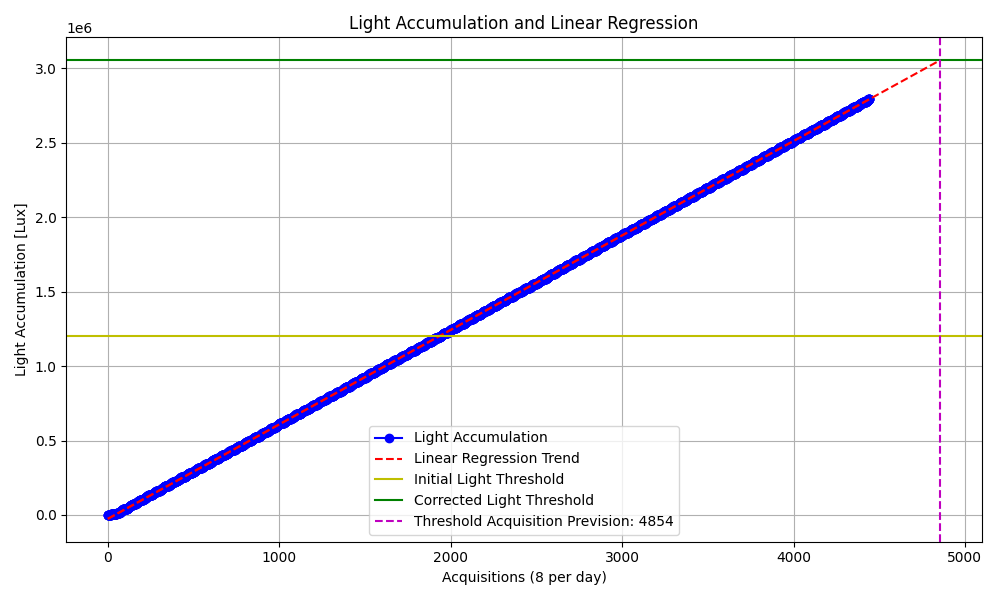
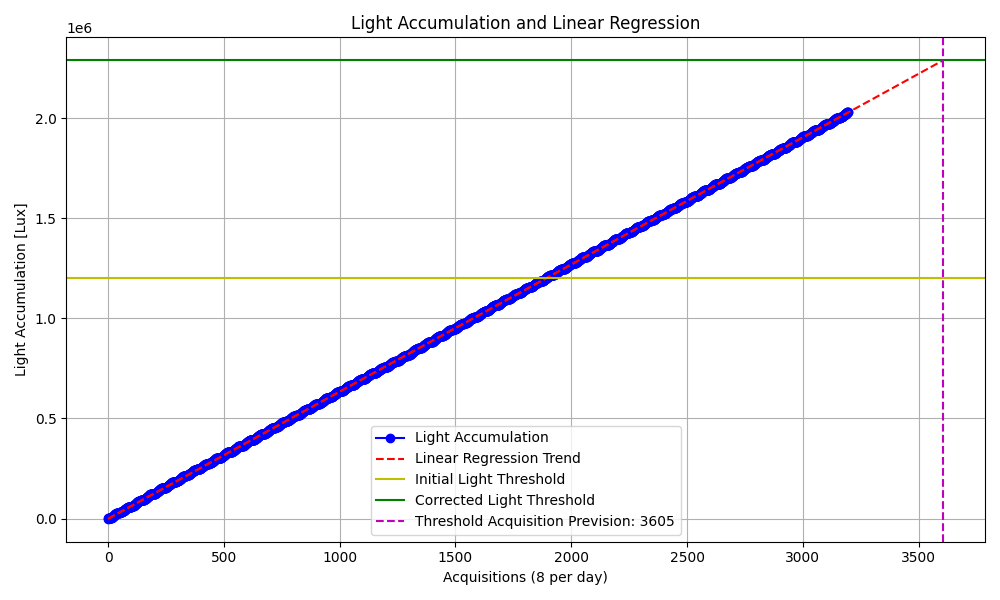
webapp + website (week19 + timeline)
Fica a faltar:
- Blog: a week20
- Timeline: meter imagens do Nuno; demo day
- Se calhar vai ser necessário alterar uma coisa no algoritmo de previsão. Depois temos que ver com dados reais

diff --git a/Website/timeline/harvest.html b/Website/timeline/harvest.html
@@ -41,26 +41,16 @@
 
     <!-- Custom styles for this template -->
     <link href="../css/style.css" rel="stylesheet" />
-    <link rel="stylesheet" href="https://cdnjs.cloudflare.com/ajax/libs/font-awesome/6.0.0/css/all.min.css">
+    <link href="../css/timeline.css" rel="stylesheet" />
     <!-- responsive style -->
     <link href="../css/responsive.css" rel="stylesheet" />
+    <link rel="stylesheet" href="https://cdnjs.cloudflare.com/ajax/libs/font-awesome/6.0.0/css/all.min.css">
 
     <script>
       function goBack() {
           window.history.back();
       }
     </script>
-
-    <style>
-        /* Define hover effect */
-        .video-container {
-            transition: transform 0.3s ease; /* Smooth transition */
-        }
-
-        .video-container:hover {
-            transform: scale(1.1); /* Increase scale on hover */
-        }
-    </style>
   
 
 </head>
@@ -146,63 +136,51 @@
             };
         </script>
 
-        <section class="service_section layout_padding" style="margin-top: -30px;">
-            <div class="service_container">
-                <div class="container ">
-                    <div class="heading_container" style="margin-bottom: 1%;">
-                        <h2>
-                          Progress Update 
-                        </h2>
-                    </div>
-                    <div class="heading_container" style="margin-bottom: -5%;">
-                      <h5>16<sup>th</sup> Jun. - 22<sup>nd</sup> Jun.</h5>
-                    </div>
-                </div>
-            </div>
-        </section>
-
-        <section class="about_section layout_padding-bottom" >
-            <div class="container">
-              <div style="margin-bottom: 50px; display: flex; justify-content: center;">
-                <div class="img-box" style="height: 70%; width: 70%; text-align: center;">
-                    <img src="../images/week19.jpg" alt="" style="border-radius: 5px; margin: auto; width: 96.5%;">
-                </div>
+        <section class="service_section layout_padding" style="margin-top: -35px; margin-bottom: -90px;">
+          <div class="service_container">
+            <div class="container ">
+              <div class="heading_container">
+                <h2>
+                    Harvest Date Prediction Model
+                </h2>
               </div>
-              <div style="text-align:justify; margin-bottom: 50px;">
-
-                <p>During the past week, we completed the final adjustments to our website. We also started and finished the harvest date prediction algorithm. This algorithm is based on accumulated light and a computer vision model. Using accumulated light, we performed a linear regression, and with the computer vision model, we adjusted the accumulated light threshold value to achieve the desired maturation level (90% to 95%). The computer vision model proved to be quite important, as it allows us to correct potential deviations since maturation is not completely linear with accumulated light. Finally, this model was integrated into the web app.</p>
-                <div style="display: flex; justify-content: center;">
-                  <figure>
-                      <img src="../images/prevision.png" alt="Image depicting Alternaria disease" style="width:800px; border-radius: 5px;">
-                      <figcaption style="text-align: center; font-style: italic; margin-top: 10px; margin-bottom: 10px;">Results from the Harvest Date Prediction Model</figcaption>
-                  </figure>
-                </div>
-                <p style="text-align: right;"><em>(Francisco Apolinário)</em></p>
-
-                <p>We also finished the modifications to the 3D models of the boxes that will house the hardware, making them more compact and efficient.</p>
-                <p style="text-align: right;"><em>(Hugo Dezerto)</em></p>
-
-                <p>During the week, we also made adjustments to the server and the backend of the web app to integrate the harvest date prediction model. Concurrently, we printed the designed boxes and added stands to ensure the nodes are positioned above the level of the tomato plant leaves. This setup allows for accurate light measurements.</p>
-                <p style="text-align: right;"><em>(Filipe Piçarra)</em></p>
-              
-                <p>Lastly, we finalized the computer vision model for identifying diseases on tomato leaves.</p>
-                <p style="text-align: right;"><em>(Nuno Abreu)</em></p>
-
-                <!--
-                <p></p>
-                <p style="text-align: right;"><em>(Guilherme Barros)</em></p>
-
-                <p></p>
-                <p style="text-align: right;"><em>(Matilde Sardinha)</em></p>
-                -->
-
-                </div>
-                <button onclick="goBack()" class="btn-box"
-                  style="background-color: #455a1b; color: white; border: none; padding: 8px 16px; cursor: pointer; font-size: 14px; margin-top: -5%;">
-                  Read Less
-              </button>
             </div>
+          </div>
         </section>
+      
+        <section class="about_section layout_padding-bottom" style="margin-top: 30px;">
+          <div class="container">
+            <div class="row">
+                <div class="col-md-6" style="margin-bottom: 30px;">
+                    <div class="img-box" style="height: 90%; width: 90%; margin-left: 5%;">
+                      <img src="../images/prev.png" alt="" style="border-radius: 5px ">
+                    </div>
+                  </div>
+                  <div class="col-md-6" style="text-align: justify; margin-bottom: 30px;">
+                    <p> 
+                        In discussions with agricultural engineers, a significant opportunity emerged in the realm of predicting harvest schedules and understanding crop cycles more accurately. They pointed out that existing methods could be enhanced by leveraging luminosity data collected via sensors. To explore this potential, we developed a Python-based model that utilizes linear regression. This model analyzes the accumulation of luminosity over time to predict the precise day when a predefined luminosity threshold will be met, signaling optimal harvest conditions.
+                    </p>
+                  </div>
+                  <div class="col-md-6" style="text-align: justify; margin-bottom: 30px;">
+                    <p>
+                        Recognizing the inherent variability among different crops and the potential for errors in setting fixed thresholds, we incorporated insights from computer vision technology. This complementary model monitors the maturity levels of crops visually, allowing for dynamic adjustments to the luminosity threshold. By integrating these two approaches, our solution becomes versatile and adaptable, catering effectively to diverse agricultural environments and responding flexibly to the unique growth behaviors of various crops. This combined methodology not only enhances the accuracy of harvest predictions but also improves overall crop management strategies.
+                    </p>
+                  </div>
+                  <div class="col-md-6" style="margin-bottom: 30px;">
+                    <div class="img-box" style="height: 90%; width: 90%; margin-left: 5%;">
+                      <img src="../images/previsi.png" alt="" style="border-radius: 5px; width: 105%;">
+                    </div>
+                  </div>
+            </div>
+            <div style="margin-top: 30px;">
+            <button onclick="goBack()" class="btn-box"
+                style="background-color: #455a1b; color: white; border: none; padding: 8px 16px; cursor: pointer; font-size: 14px;">
+                See Less
+            </button>
+          </div>
+          </div>
+        </section>
+
 
         <!-- footer section -->
         <section class="footer_section">

diff --git a/Website/timeline/comp_vision.html b/Website/timeline/comp_vision.html
@@ -152,40 +152,54 @@
             <div class="row">
               <div class="col-md-6" style="margin-bottom: 30px;">
                 <div class="img-box" style="height: 90%; width: 90%; margin-left: 5%;">
-                  <img src="../images/database.png" alt="" style="border-radius: 5px ">
+                  <img src="../images/bat1.jpeg" alt="" style="border-radius: 5px ">
                 </div>
               </div>
               <div class="col-md-6" style="text-align: justify; margin-bottom: 30px;">
-                <p>
-                  
+                <p> 
+                  Due to the nature of machine learning, we knew that developing our own models without a good dataset would be a challenge. As such, we initially aimed to develop a Python program capable of running detections with any computer vision model. This approach allowed us to spend time finding adequate models to deploy once the program was complete.
                 </p>
               </div>
               <div class="col-md-6" style="text-align: justify; margin-bottom: 30px;">
                 <p>
-                  
-              </p>
-              <p>
-                
-            </p>              </div>
-                <style>
-                  video {
-                    position: relative; 
-                    z-index: 1;  
-                    transition: transform 0.3s ease;
-                  }
-
-                  video:hover {
-                      transform: scale(1.1);
-                  }
-              </style>
-              
+                  The application proved difficult to develop due to the various frameworks and formats of CV models. Pursuing it further no longer made sense. However, we discovered two datasets: one for identifying tomatoes and their ripeness level, and one for identifying diseases in tomato leaves. This discovery solved the problem of requiring a good dataset for model development. The new objective became creating these two models using YOLOv8 and developing a program to run detections using any YOLOv8 model.
+                </p>
+              </div>
               <div class="col-md-6" style="margin-bottom: 30px;">
-                  <div class="img-box" style="width: 90%; height: 90%; margin-left: 5%;">
-                      <video width="100%" height="100%" alt="" controls loop autoplay muted style="border-radius: 5px; ">
-                          <source src="../videos/week7.webm" type="video/webm">
-                      </video>
-                  </div>
-              </div>                          
+                <div class="img-box" style="height: 90%; width: 90%; margin-left: 5%;">
+                  <img src="../images/bat2.jpeg" alt="" style="border-radius: 5px; width: 105%;">
+                </div>
+              </div>
+              <div class="col-md-6" style="margin-bottom: 30px;">
+                <div class="img-box" style="height: 90%; width: 90%; margin-left: 5%;">
+                  <img src="../images/bat3.jpeg" alt="" style="border-radius: 5px ">
+                </div>
+              </div>
+              <div class="col-md-6" style="text-align: justify; margin-bottom: 30px;">
+                <p> 
+                  To create the tomato image segmentation model, we first parsed the dataset into a format suitable for training. After this, we used the parsed dataset to train an image segmentation model. Lastly, we developed a Python script to run this model on a given image. This script could also be imported and used as a detection function. Multiple iterations of this script were developed, which we will explore further later.
+                </p>
+              </div>
+              <div class="col-md-6" style="text-align: justify; margin-bottom: 30px;">
+                <p>
+                  Developing the leaf disease object detection model posed several challenges. Parsing the data was difficult due to its lack of normalization and the sheer volume of data points. Additionally, the dataset quality was lower than expected, with many grainy or out-of-focus images. Identifying slightly different leaves in a field of leaves is a more complex task than identifying red balls in a green field. To address these issues, we created a more complex model with a larger matrix, which was harder to train but more effective at achieving our goal.
+                </p>
+              </div>
+              <div class="col-md-6" style="margin-bottom: 30px;">
+                <div class="img-box" style="height: 90%; width: 90%; margin-left: 5%;">
+                  <img src="../images/bat4.jpeg" alt="" style="border-radius: 5px;">
+                </div>
+              </div>
+              <div class="col-md-6" style="margin-bottom: 30px;">
+                <div class="img-box" style="height: 90%; width: 90%; margin-left: 5%;">
+                  <img src="../images/bat3.jpeg" alt="" style="border-radius: 5px ">
+                </div>
+              </div>
+              <div class="col-md-6" style="text-align: justify; margin-bottom: 30px;">
+                <p> 
+                  The Python program was developed alongside the models to meet evolving demands. Initially, we allowed for different models to be used. We then altered how images were saved. Subsequently, we made it so that a .json file was created with the detections. Later, we implemented threading to make the process non-blocking and compatible with the database in use. The final change included adding the model name in the .json file.
+                </p>
+              </div>
             </div>
             <div style="margin-top: 30px;">
             <button onclick="goBack()" class="btn-box"

diff --git a/Website/service.html b/Website/service.html
@@ -330,6 +330,25 @@
                 </li>
               -->
 
+              <li>
+                <div class="content" style="text-align:justify; ">
+                    <h4 style="color: #455a1b; text-align:justify;"> Harvest Date Prediction Model </h4>
+                    <p>
+                      We identified an opportunity in agriculture: predicting harvest dates and crop cycle durations using luminosity data from sensors. Our Python model employs linear regression to forecast when a specified luminosity threshold will be reached, optimizing harvest timing. To account for crop variability, we integrated computer vision to dynamically adjust thresholds based on visual maturity cues. This approach enhances accuracy and adaptability across different crops, improving overall agricultural management.
+                    </p>
+                    <div class="content" style="text-align:justify;">
+                      <div class="btn_box">
+                        <button onclick="window.location.href='timeline/harvest.html'"
+                        style="background-color: #455a1b; color: white; border: none; padding: 8px 16px; cursor: pointer; font-size: 14px;">
+                          See More
+                      </button>
+                      </div>
+                    <div class="time">
+                        <h4>23<sup>rd</sup> June 2024</h4>
+                    </div>
+                </div>
+              </li>
+
                 <li>
                   <div class="content" style="text-align:justify; ">
                       <h4 style="color: #455a1b; text-align:justify;"> 3D Modeling & Printing </h4>
@@ -344,17 +363,16 @@
                         </button>
                         </div>
                       <div class="time">
-                          <h4>27<sup>th</sup> June 2024</h4>
+                          <h4>21<sup>st</sup> June 2024</h4>
                       </div>
                   </div>
                 </li>
 
-              <!--
                 <li>
                   <div class="content" style="text-align:justify; ">
                       <h4 style="color: #455a1b; text-align:justify;"> Computer Vision Model </h4>
                       <p>
-                        
+                        Initially aiming to create a universal detection program, we shifted focus after finding two datasets for tomato ripeness and leaf disease detection. Using YOLOv8, we developed a tomato segmentation model and a complex leaf disease detection model. Our Python program evolved to support various models, improve image saving, generate .json detections, implement threading, and include model names in outputs.
                       </p>
                       <div class="content" style="text-align:justify;">
                         <div class="btn_box">
@@ -364,11 +382,10 @@
                         </button>
                         </div>
                       <div class="time">
-                          <h4>18<sup>th</sup> June 2024</h4>
+                          <h4>14<sup>th</sup> June 2024</h4>
                       </div>
                   </div>
                 </li>
-              -->
 
               <li>
                 <div class="content" style="text-align:justify; ">

diff --git a/Website/about.html b/Website/about.html
@@ -202,7 +202,7 @@
           <div class="caixa" style="width: 180px; height: 220px; margin-right: 20px;">
             <!-- Diminui ligeiramente o tamanho das caixas e aumenta o espaçamento -->
             <div class="caixa-front" onclick="expandirCaixa('minhaCaixa')" id="minhaCaixa" 
-            data-texto-completo="Filipe's expertise lies in the hardware and software intricacies of our project. He leads hardware acquisition, server management, and webapp backend development, ensuring optimal performance. His role extends to hardware prototyping and video production. Filipe's technical prowess and attention to detail are indispensable, driving efficiency and innovation in our project's hardware and software domains.">
+            data-texto-completo="Filipe's expertise lies in the hardware and software intricacies of our project. He leads hardware acquisition, server management, and webapp backend development, ensuring optimal performance. His role extends to hardware prototyping, video production, and he was also responsible for the 3D printing of models. Filipe's technical prowess and attention to detail are indispensable, driving efficiency and innovation in our project's hardware and software domains.">
               <img src="images/Filipe.jpeg" alt="Imagem 1" width="100px" style="margin-top: 20px; border-radius: 5px;">
               <p style="font-size: 14px; margin-top: 17px;"><b>Filipe Piçarra</b></p>
               <p style="margin-top: -3px;">
@@ -219,7 +219,7 @@
           <div class="caixa" style="width:180px; height: 220px; margin-right: 20px;">
             <!-- Diminui ligeiramente o tamanho das caixas e aumenta o espaçamento -->
             <div class="caixa-front" onclick="expandirCaixa('minhaCaixa1')" id="minhaCaixa1"
-            data-texto-completo="Francisco is the communication focal point in our project, managing reports, and coordinating with external partners. He has been deeply involved in website design, meetings with partners, and webapp frontend development. Additionally, he contributes his creative touch to posters and pitch deck presentations. Francisco's role ensures seamless communication and adds visual appeal to our project's endeavors, making him an indispensable asset to our team.">
+            data-texto-completo="Francisco is the communication focal point in our project, managing reports and coordinating with external partners. He has been deeply involved in website design, meetings with partners, and webapp frontend development. Additionally, he contributes his creative touch to posters and pitch deck presentations. Francisco's role ensures seamless communication and adds visual appeal to our project's endeavors, making him an indispensable asset to our team. Moreover, he was also responsible for creating the algorithm to predict the harvest date, further showcasing his diverse skill set and commitment to our project's success.">
               <img src="images/Francisco.jpeg" alt="Imagem 2" width="100px" style="margin-top: 20px; border-radius: 5px;">   <!-- Dimensões 1000 alt e 900 larg -->
               <p style="font-size: 14px; margin-top: 17px;"><b>Francisco Apolinário</b></p>
               <p style="margin-top: -3px;">

diff --git a/Website/blog.html b/Website/blog.html
@@ -147,10 +147,10 @@
               <div class="blog_content">
                 <h5>23<sup>rd</sup> Jun. - 29<sup>th</sup> Jun.</h5>
                 <p></p>
-                <a><button onclick="window.location.href='blog/week18.html'"
+                <a><button onclick="window.location.href='blog/week20.html'"
                   style="background-color: #455a1b; color: white; border: none; padding: 8px 16px; cursor: pointer; font-size: 14px;">Read More</a>
               </div>
-            </div>
+            </div>-->
 
             <div class="blog_post col-md-3">
               <div class="blog_image">
@@ -158,11 +158,11 @@
               </div>
               <div class="blog_content">
                 <h5>16<sup>th</sup> Jun. - 22<sup>nd</sup> Jun.</h5>
-                <p></p>
-                <a><button onclick="window.location.href='blog/week18.html'"
+                <p>During the past week, we completed the final adjustments to our website. We also started and finished the harvest date prediction algorithm. This algorithm is based on accumulated light and a computer vision model.</p>
+                <a><button onclick="window.location.href='blog/week19.html'"
                   style="background-color: #455a1b; color: white; border: none; padding: 8px 16px; cursor: pointer; font-size: 14px;">Read More</a>
               </div>
-            </div>-->
+            </div>
 
             <div class="blog_post col-md-3">
               <div class="blog_image">
